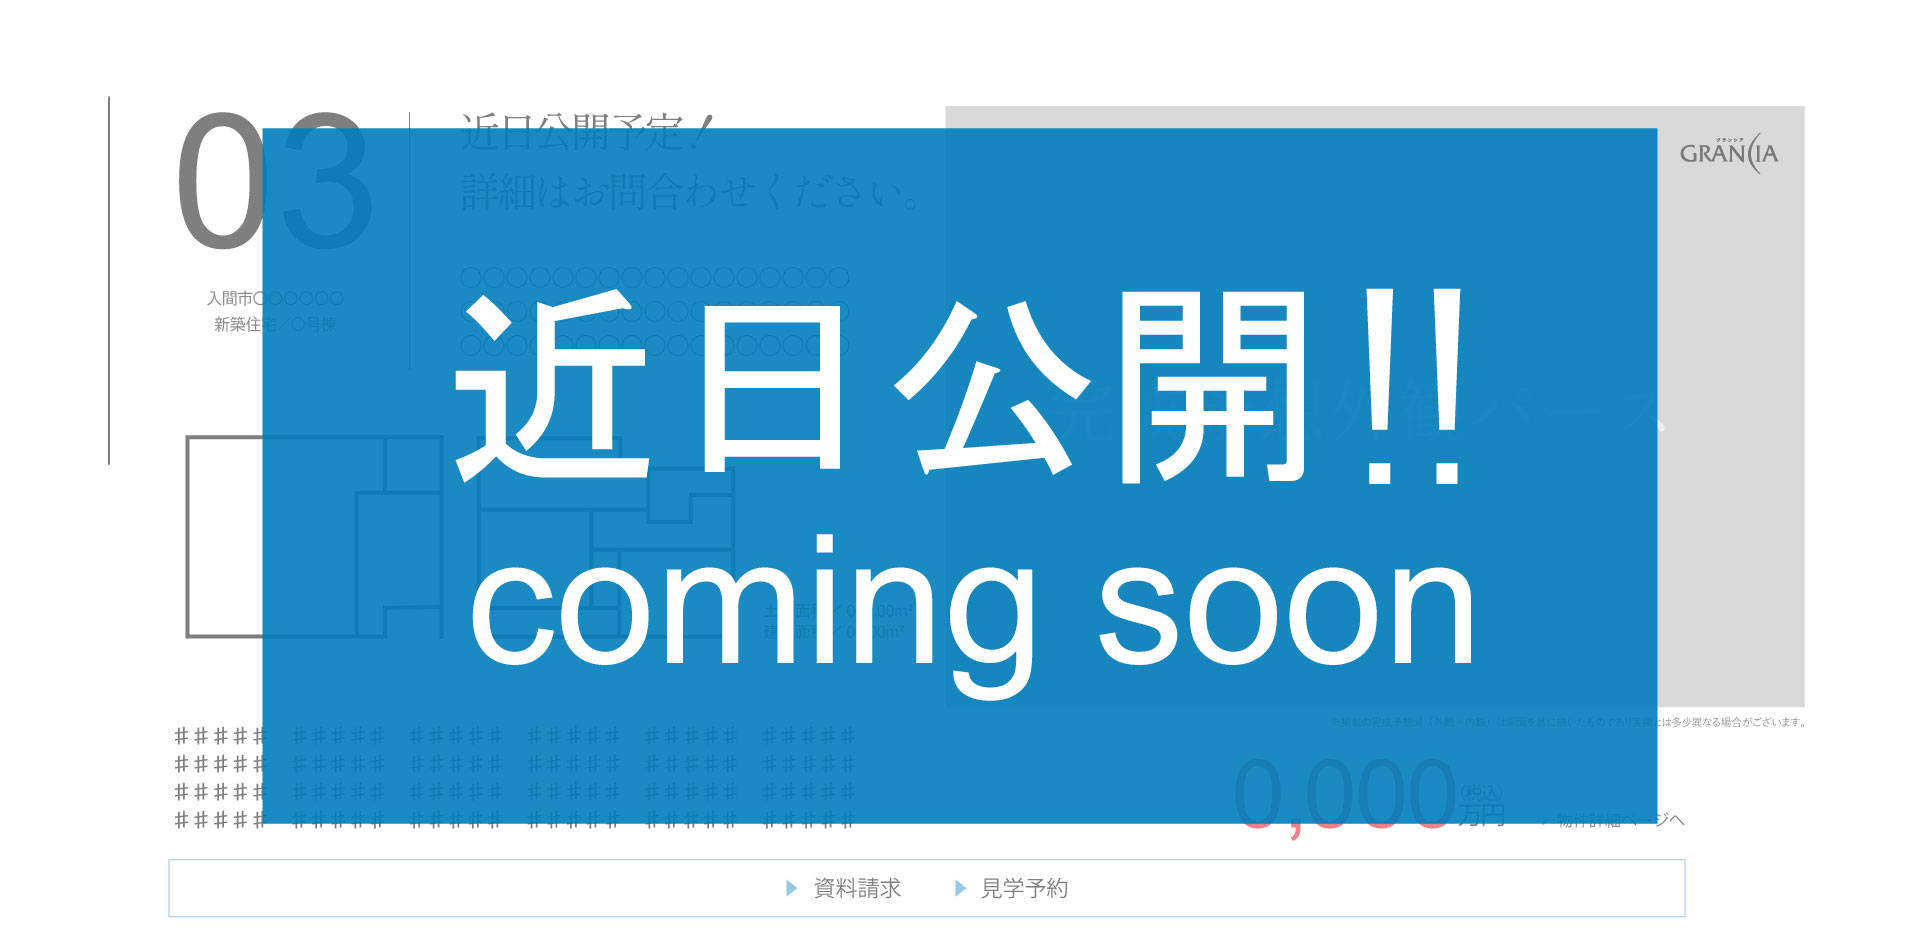
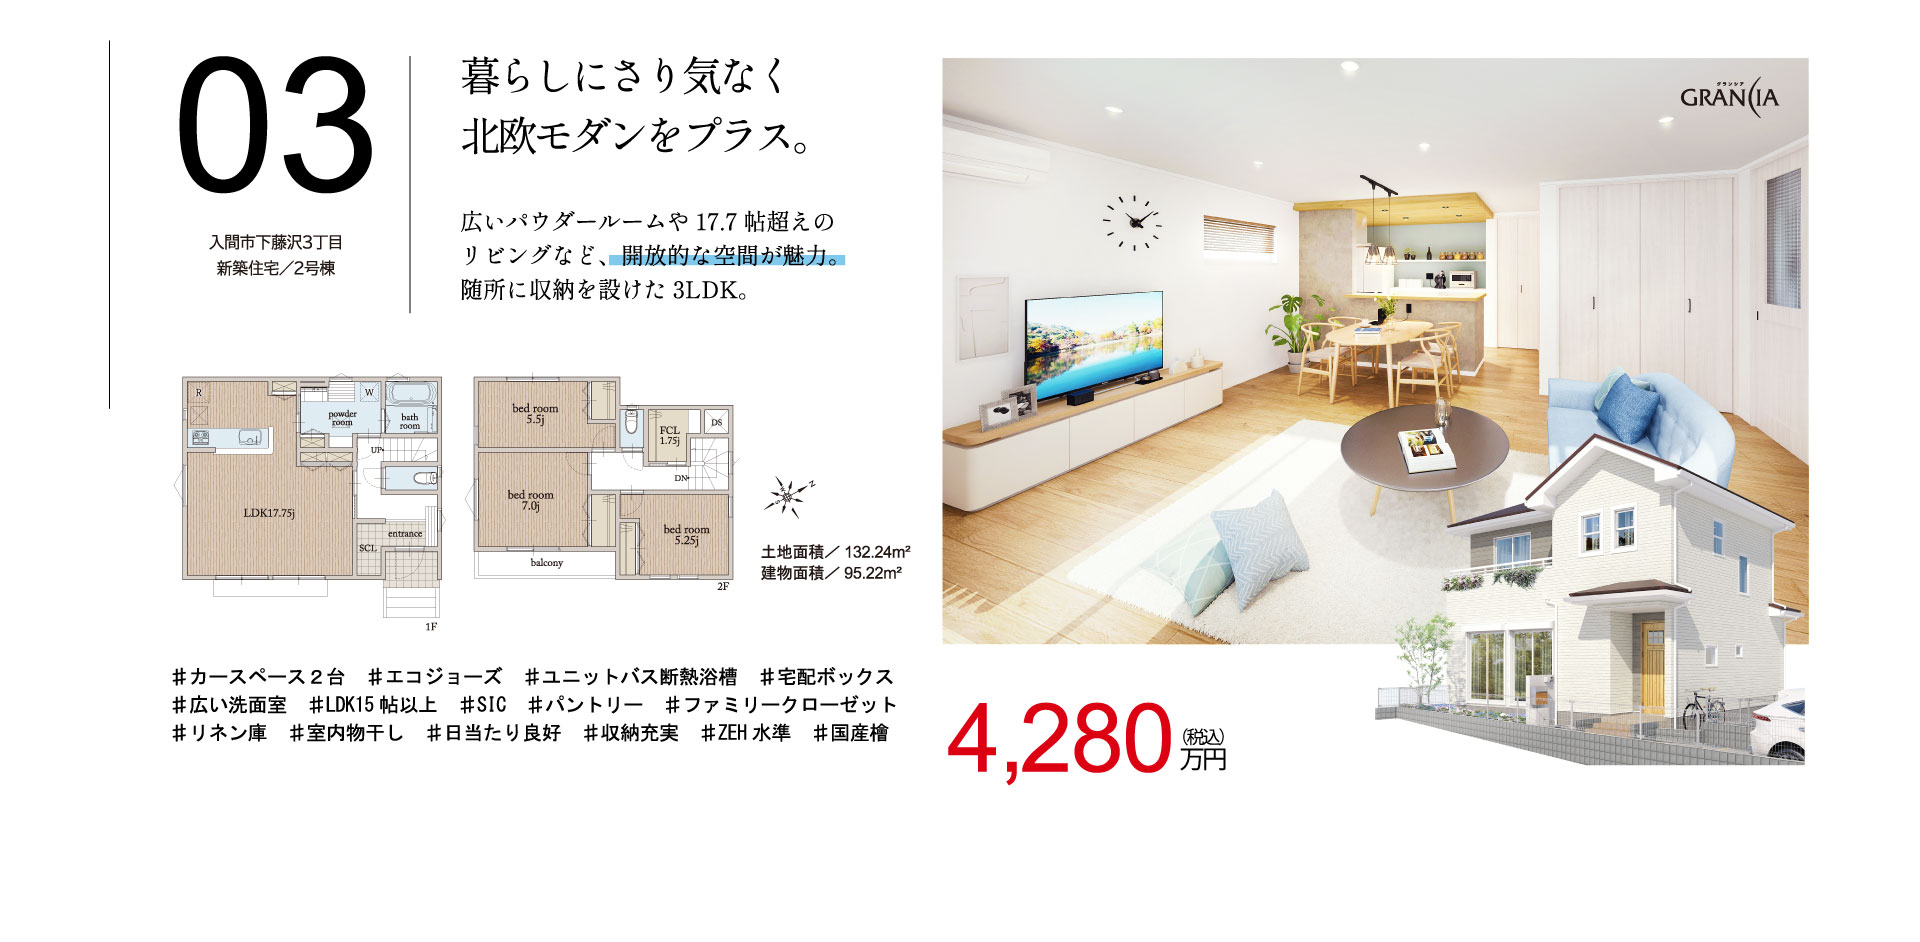
0513_修正

diff --git a/index.html b/index.html
@@ -158,45 +158,25 @@
                 </ul>
             </div>
         </div>
-        <!-- SHOP_03 / 物件番号（17号棟のみ） -->
-        <!-- SHOP_03 / 物件番号（全体） -->
-        <!-- <div class="c-contents -imgBg mgb10 mgb10s">
+        <!-- SHOP_03 / 712973178 -->
+        <div class="c-contents -imgBg mgb5 mgb10s">
             <div class="imgBox">
-                <img class="sp"    src="images/bg/shop03_bg_s.jpg" alt="新座市野寺4丁目 | 建築条件付土地／新築住宅">
-                <img class="tb-pc" src="images/bg/shop03_bg.jpg"   alt="新座市野寺4丁目 | 建築条件付土地／新築住宅">
+                <img class="sp"    src="images/bg/shop03_bg_s.jpg" alt="入間市下藤沢3丁目 | 新築住宅／2号棟">
+                <img class="tb-pc" src="images/bg/shop03_bg.jpg"   alt="入間市下藤沢3丁目 | 新築住宅／2号棟">
             </div>
             <div class="c-contentsBox -shopBtn01 -shop03" style="overflow: hidden;">
-                <a class="s-SS c-link -text" href="https://www.jyu-g.co.jp/special/nodera4_1" ><span class="pdr1 pdl1s">▶</span>物件詳細ページ</a>
+                <a class="s-SS c-link -text" href="https://www.jyu-g.co.jp/contents/detail/712973178"><span class="pdr1 pdl1s">▶</span>物件詳細ページ</a>
             </div>
             <div class="c-contentsBox -shopBtn02 -shop03">
                 <ul class="c-flex -col2_2 -btn">
                     <li>
-                        <a class="s-L -color02 c-link -c-color" href="https://www.jyu-g.co.jp/contents/inquiry?checkid=712117780"><span class="-color02 pdr5 pdr2s">▶</span>資料請求</a>
+                        <a class="s-L -color02 c-link -c-color" href="https://www.jyu-g.co.jp/contents/inquiry?checkid=712973178"><span class="-color02 pdr5 pdr2s">▶</span>資料請求</a>
                     </li>
                     <li>
-                        <a class="s-L -color02 c-link -c-color" href="https://www.jyu-g.co.jp/contents/tour?checkid=712117780"><span class="-color02 pdr5 pdr2s">▶</span>見学予約</a>
+                        <a class="s-L -color02 c-link -c-color" href="https://www.jyu-g.co.jp/contents/tour?checkid=712973178"><span class="-color02 pdr5 pdr2s">▶</span>見学予約</a>
                     </li>
                 </ul>
             </div>
-        </div> -->
-        <div class="c-contents -imgBg mgb5 mgb10s">
-            <div class="imgBox">
-                <img class="sp"    src="images/bg/shop03_bg_s.jpg" alt="未発表物件03 | 新築住宅or建築条件付土地">
-                <img class="tb-pc" src="images/bg/shop03_bg.jpg"   alt="未発表物件03 | 新築住宅or建築条件付土地">
-            </div>
-            <!-- <div class="c-contentsBox -shopBtn01 -shop02" style="overflow: hidden;">
-                <a class="s-SS c-link -text" href="https://www.jyu-g.co.jp/contents/detail/712957520"><span class="pdr1 pdl1s">▶</span>物件詳細ページ</a>
-            </div>
-            <div class="c-contentsBox -shopBtn02 -shop02">
-                <ul class="c-flex -col2_2 -btn">
-                    <li>
-                        <a class="s-L -color02 c-link -c-color" href="https://www.jyu-g.co.jp/contents/inquiry?checkid=712957520"><span class="-color02 pdr5 pdr2s">▶</span>資料請求</a>
-                    </li>
-                    <li>
-                        <a class="s-L -color02 c-link -c-color" href="https://www.jyu-g.co.jp/contents/tour?checkid=712957520"><span class="-color02 pdr5 pdr2s">▶</span>見学予約</a>
-                    </li>
-                </ul>
-            </div> -->
         </div>
         
         <!-- SHOP_04 物件番号 -->

diff --git a/css/style.css b/css/style.css
@@ -4111,13 +4111,13 @@ button.swiper-pagination-bullet {
   }
 }
 .c-contents.-imgBg .c-contentsBox.-shopBtn01.-shop03 {
-  top: 85.5%;
+  top: 87.5%;
   left: 84%;
 }
 @media (width >= 768px) {
   .c-contents.-imgBg .c-contentsBox.-shopBtn01.-shop03 {
-    top: 75.5%;
-    left: 83%;
+    top: 81%;
+    left: 68%;
   }
 }
 .c-contents.-imgBg .c-contentsBox.-shopBtn01.-shop04 {
@@ -4159,15 +4159,15 @@ button.swiper-pagination-bullet {
 }
 @media (width >= 768px) {
   .c-contents.-imgBg .c-contentsBox.-shopBtn02.-shop02 {
-    top: 87%;
+    top: 90%;
   }
 }
 .c-contents.-imgBg .c-contentsBox.-shopBtn02.-shop03 {
-  top: 96.5%;
+  top: 93%;
 }
 @media (width >= 768px) {
   .c-contents.-imgBg .c-contentsBox.-shopBtn02.-shop03 {
-    top: 87%;
+    top: 90%;
   }
 }
 .c-contents.-imgBg .c-contentsBox.-shopBtn02.-shop05_06 {

diff --git a/scss/components/_contents.scss b/scss/components/_contents.scss
@@ -418,11 +418,11 @@
 					}
 				}
 				&.-shop03{
-					top: 85.5%;
+					top: 87.5%;
 					left: 84%;
 					@include min(768){
-						top: 75.5%;
-						left: 83%;
+						top: 81%;
+						left: 68%;
 					}
 				}
 				&.-shop04{
@@ -457,13 +457,13 @@
 				&.-shop02{
 					top: 96%;
 					@include min(768){
-						top: 87%;
+						top: 90%;
 					}
 				}
 				&.-shop03{
-					top: 96.5%;
+					top: 93%;
 					@include min(768){
-						top: 87%;
+						top: 90%;
 					}
 				}
 
